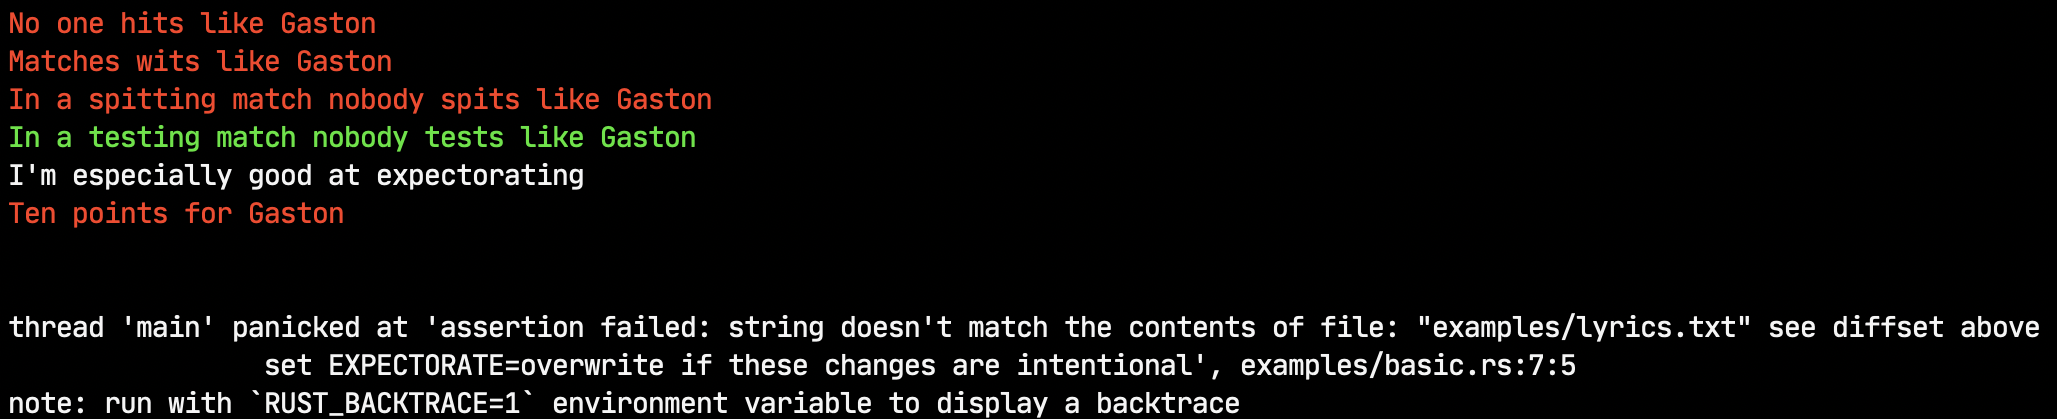
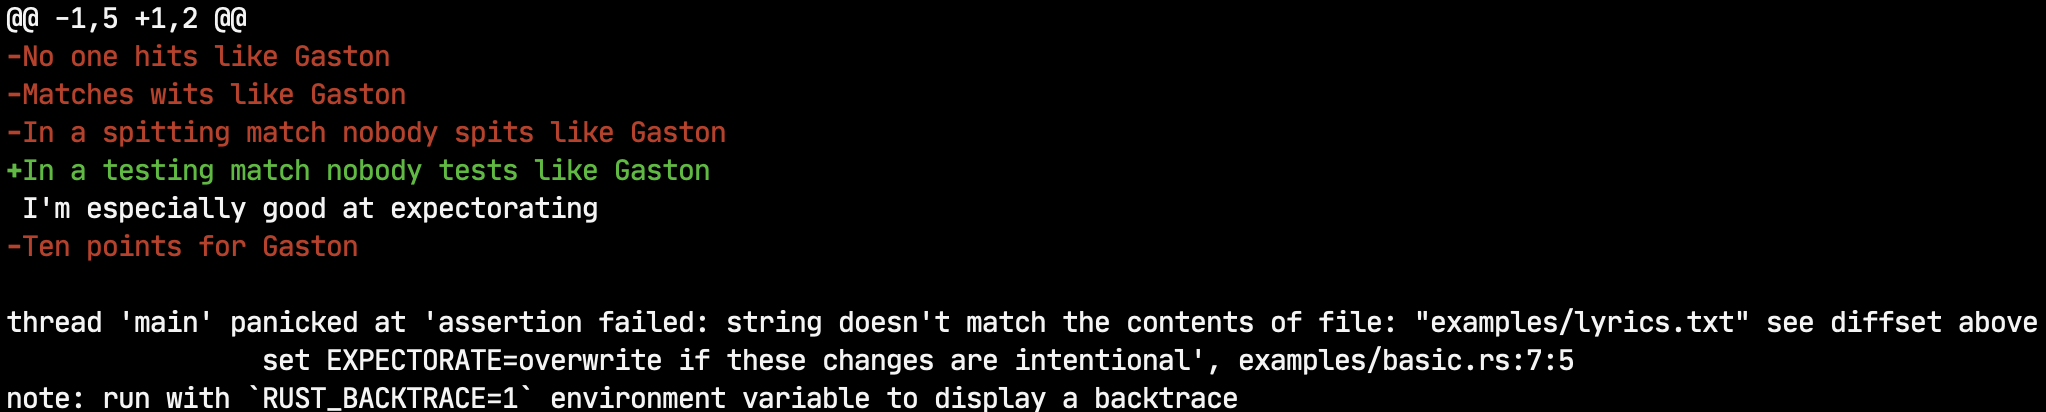
add colorized diff back (#11)

diff --git a/src/lib.rs b/src/lib.rs
@@ -33,8 +33,9 @@
 //! -Ten points for Gaston
 //! ```
 
+use console::Style;
 use newline_converter::dos2unix;
-use similar::{udiff::unified_diff, Algorithm};
+use similar::{Algorithm, ChangeTag, TextDiff};
 use std::{env, fs, path::Path};
 
 /// Compare the contents of the file to the string provided
@@ -69,14 +70,28 @@ pub fn assert_contents<P: AsRef<Path>>(path: P, actual: &str) {
         let expected = dos2unix(&expected_s);
 
         if expected != actual {
-            let diff = unified_diff(
-                Algorithm::Myers, // default algorithm used by git
-                &expected,
-                &actual,
-                5, // lines before and after
-                None,
-            );
-            println!("{}", diff);
+            for hunk in TextDiff::configure()
+                .algorithm(Algorithm::Myers)
+                .diff_lines(&expected, &actual)
+                .unified_diff()
+                .context_radius(5)
+                .iter_hunks()
+            {
+                println!("{}", hunk.header());
+                for change in hunk.iter_changes() {
+                    let (marker, style) = match change.tag() {
+                        ChangeTag::Delete => ('-', Style::new().red()),
+                        ChangeTag::Insert => ('+', Style::new().green()),
+                        ChangeTag::Equal => (' ', Style::new()),
+                    };
+                    print!("{}", style.apply_to(marker).bold());
+                    print!("{}", style.apply_to(change));
+                    if change.missing_newline() {
+                        println!();
+                    }
+                }
+            }
+            println!();
             panic!(
                 r#"assertion failed: string doesn't match the contents of file: "{}" see diffset above
                 set EXPECTORATE=overwrite if these changes are intentional"#,
